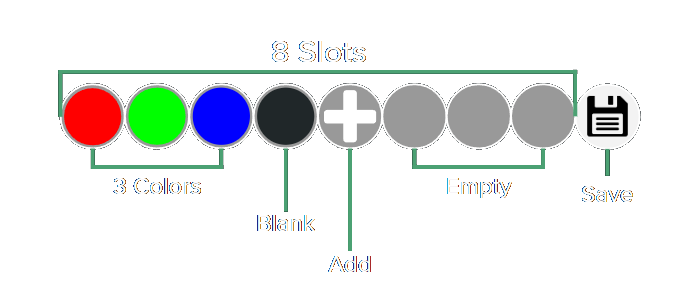
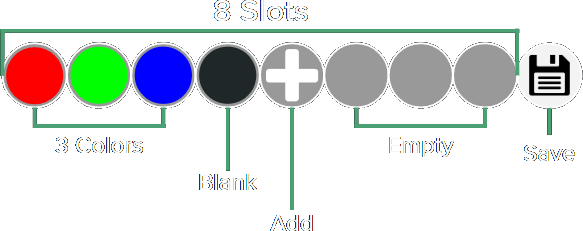
improved lightshow

diff --git a/docs/assets/js/ColorSelect.js b/docs/assets/js/ColorSelect.js
@@ -16,7 +16,10 @@ function renderSlots() {
     slot.style.cursor = 'pointer';
 
     // Add event listeners for editing and deleting
-    slot.addEventListener('click', () => editColor(index));
+    slot.addEventListener('click', (event) => {
+      editColor(index)
+      event.stopPropagation();
+    });
     slot.addEventListener('mousedown', () => handleDelete(index));
 
     slotsContainer.appendChild(slot);
@@ -75,10 +78,16 @@ function createDropdown(options, onSelect) {
     const box = document.createElement('div');
     box.style.width = '40px';
     box.style.height = '40px';
-    box.style.backgroundColor = option.color;
     box.style.cursor = 'pointer';
     box.style.borderRadius = '8px';
     box.style.border = '2px solid #555';
+
+    // Apply the gradient background
+    if (option.backgroundImage) {
+      box.style.backgroundImage = option.backgroundImage;
+    } else {
+      box.style.backgroundColor = option.color;
+    }
 
     box.addEventListener('click', (event) => {
       event.stopPropagation();
@@ -93,20 +102,20 @@ function createDropdown(options, onSelect) {
 
 function addNewColor() {
   if (colorset.length < 8) {
-    colorset.push('#000000'); // Add a default color (black) as a placeholder
-    renderSlots(); // Re-render slots
-    editColor(colorset.length - 1); // Open the color picker for the new slot
+    colorset.push('#000000');
+    renderSlots();
+    editColor(colorset.length - 1);
   }
 }
 
 function editColor(slot) {
   if (!deleteMode) {
-    closeDropdown(); // Ensure no other dropdowns are open
-    showHueQuadrantDropdown(slot); // Start with the Hue Quadrant selection
+    closeDropdown();
+    showHueQuadrantDropdown(slot);
   }
 }
 
-function deleteColor(slot) { // Delete the color if it's flashing red
+function deleteColor(slot) {
   colorset.splice(slot, 1);
 }
 
@@ -129,10 +138,22 @@ function showHueQuadrantDropdown(slot) {
   closeDropdown(); // Ensure previous dropdown is closed
 
   const hueQuadrants = [
-    { value: 0, color: 'hsl(0, 100%, 50%)' },    // 0° - 90° (Red to Yellow)
-    { value: 90, color: 'hsl(90, 100%, 50%)' },  // 90° - 180° (Green to Teal)
-    { value: 180, color: 'hsl(180, 100%, 50%)' },// 180° - 270° (Cyan to Blue)
-    { value: 270, color: 'hsl(270, 100%, 50%)' } // 270° - 360° (Purple to Pink)
+    {
+      value: 0,
+      backgroundImage: 'linear-gradient(to right, hsl(0, 100%, 50%), hsl(70, 100%, 50%))'
+    }, // 0° - 90° (Red to Yellow)
+    {
+      value: 90,
+      backgroundImage: 'linear-gradient(to right, hsl(90, 100%, 50%), hsl(160, 100%, 50%))'
+    }, // 90° - 180° (Green to Teal)
+    {
+      value: 180,
+      backgroundImage: 'linear-gradient(to right, hsl(180, 100%, 50%), hsl(250, 100%, 50%))'
+    }, // 180° - 270° (Cyan to Blue)
+    {
+      value: 270,
+      backgroundImage: 'linear-gradient(to right, hsl(270, 100%, 50%), hsl(340, 100%, 50%))'
+    } // 270° - 360° (Purple to Pink)
   ];
 
   const hueQuadrantDropdown = createDropdown(hueQuadrants, (hueQuadrantValue) => {
@@ -149,7 +170,7 @@ function showHueDropdown(slot, hueQuadrantValue) {
 
   const hues = [];
   for (let i = 0; i < 4; i++) {
-    const hue = hueQuadrantValue + (i * 11.25); // 11.25° steps within the quadrant
+    const hue = hueQuadrantValue + (i * 22.5); // 11.25° steps within the quadrant
     hues.push({ value: hue, color: `hsl(${hue}, 100%, 50%)` });
   }
 
@@ -206,7 +227,7 @@ function positionDropdown(dropdown, slot) {
   const slotElement = document.querySelector(`[data-slot="${slot}"]`);
   const rect = slotElement.getBoundingClientRect();
   dropdown.style.top = `${rect.bottom + window.scrollY + 10}px`;
-  dropdown.style.left = `${rect.left + window.scrollX}px`;
+  dropdown.style.left = `${rect.left + window.scrollX - ((dropdown.style.width) / 2)}px`;
 }
 
 function closeDropdown() {
@@ -218,5 +239,17 @@ function closeDropdown() {
 
 document.addEventListener('DOMContentLoaded', () => {
   initializeColorset(); // Initialize and render the colorset
+
+  // Close the dropdown if clicking outside of it
+  document.addEventListener('click', (event) => {
+    if (activeDropdown && !activeDropdown.contains(event.target)) {
+      closeDropdown();
+    }
+  });
 });
 
+document.addEventListener('click', (event) => {
+  if (activeDropdown && !activeDropdown.contains(event.target)) {
+    closeDropdown();
+  }
+});

diff --git a/docs/color_select_menu.md b/docs/color_select_menu.md
@@ -38,11 +38,7 @@ grand_parent: Vortex Engine
   font-size: 64px;
   color: #fff;
   font-weight: bold;
-  line-height: 1;
-  margin: 0;
-  padding: 0;
-  margin-top: -17px;
-  margin-left: 1px;
+  font-family: 'Times New Roman';
 }
 
 .save-slot {
@@ -53,7 +49,7 @@ grand_parent: Vortex Engine
 #slots-container {
   display: flex;
   justify-content: center;
-  margin-top: 40px;
+  margin-top: 50px;
   margin-bottom: 60px;
 }
 
@@ -68,17 +64,24 @@ grand_parent: Vortex Engine
 
 The Color Select menu allows customization of the colors in the current [Mode](mode.html). This collection of colors is commonly referred to as a [Colorset](colorsets.html).
 
-## Overview
+## Try It Yourself
 
-<img src="assets/images/color-select.png">
+<img width="40%" style="float:right;margin:0;margin-left:20px;margin-right:20px;padding:0;" src="assets/images/color-select.png">
 
-<p>In the above diagram, the <em>colorset</em> contains four colors: 
-<span style="color: #f00">Red</span>, 
-<span style="color: #0f0">Green</span>, 
-<span style="color: #07f">Blue</span>, and 
-<span style="color: #090909">Blank</span></p>
+Below is an interactive colorset that mimics real color select menu functionality, you can click to add/edit colors and hold to delete colors.
 
-In the above diagram, the _colorset_ contains four colors: <span style="color: #f00">Red</span>, <span style="color: #0f0">Green</span>, <span style="color: #07f">Blue</span>, and <span style="color: #090909">Blank</span>
+<div id="slots-container">
+    <div class="slot empty" data-slot="0"></div>
+    <div class="slot empty" data-slot="1"></div>
+    <div class="slot empty" data-slot="2"></div>
+    <div class="slot empty" data-slot="3"></div>
+    <div class="slot empty" data-slot="4"></div>
+    <div class="slot empty" data-slot="5"></div>
+    <div class="slot empty" data-slot="6"></div>
+    <div class="slot empty" data-slot="7"></div>
+</div>
+
+<script src="{{ '/assets/js/ColorSelect.js' | relative_url }}"></script>
 
 The options in the menu include: [adding](color_select_menu.html#Editing-Color), [editing](color_select_menu.html#Editing-Color), [deleting](color_select_menu.html#Editing-Color), and [saving](color_select_menu.html#Editing-Color).
 
@@ -124,20 +127,3 @@ The **save** option always appears at the end, selecting this option will save t
  5. **Select Brightness**: Pick the brightness to adjust how dark the color appears.
 
 After selecting brightness the menu will go back to the slot selection and reflect the new choice.
-
-# Try It Yourself
-
-Below is an interactive colorset that mimics real color select menu functionality, you can click to add/edit colors and hold to delete colors.
-
-<div id="slots-container" style=";">
-    <div class="slot empty" data-slot="0"></div>
-    <div class="slot empty" data-slot="1"></div>
-    <div class="slot empty" data-slot="2"></div>
-    <div class="slot empty" data-slot="3"></div>
-    <div class="slot empty" data-slot="4"></div>
-    <div class="slot empty" data-slot="5"></div>
-    <div class="slot empty" data-slot="6"></div>
-    <div class="slot empty" data-slot="7"></div>
-</div>
-
-<script src="{{ '/assets/js/ColorSelect.js' | relative_url }}"></script>
